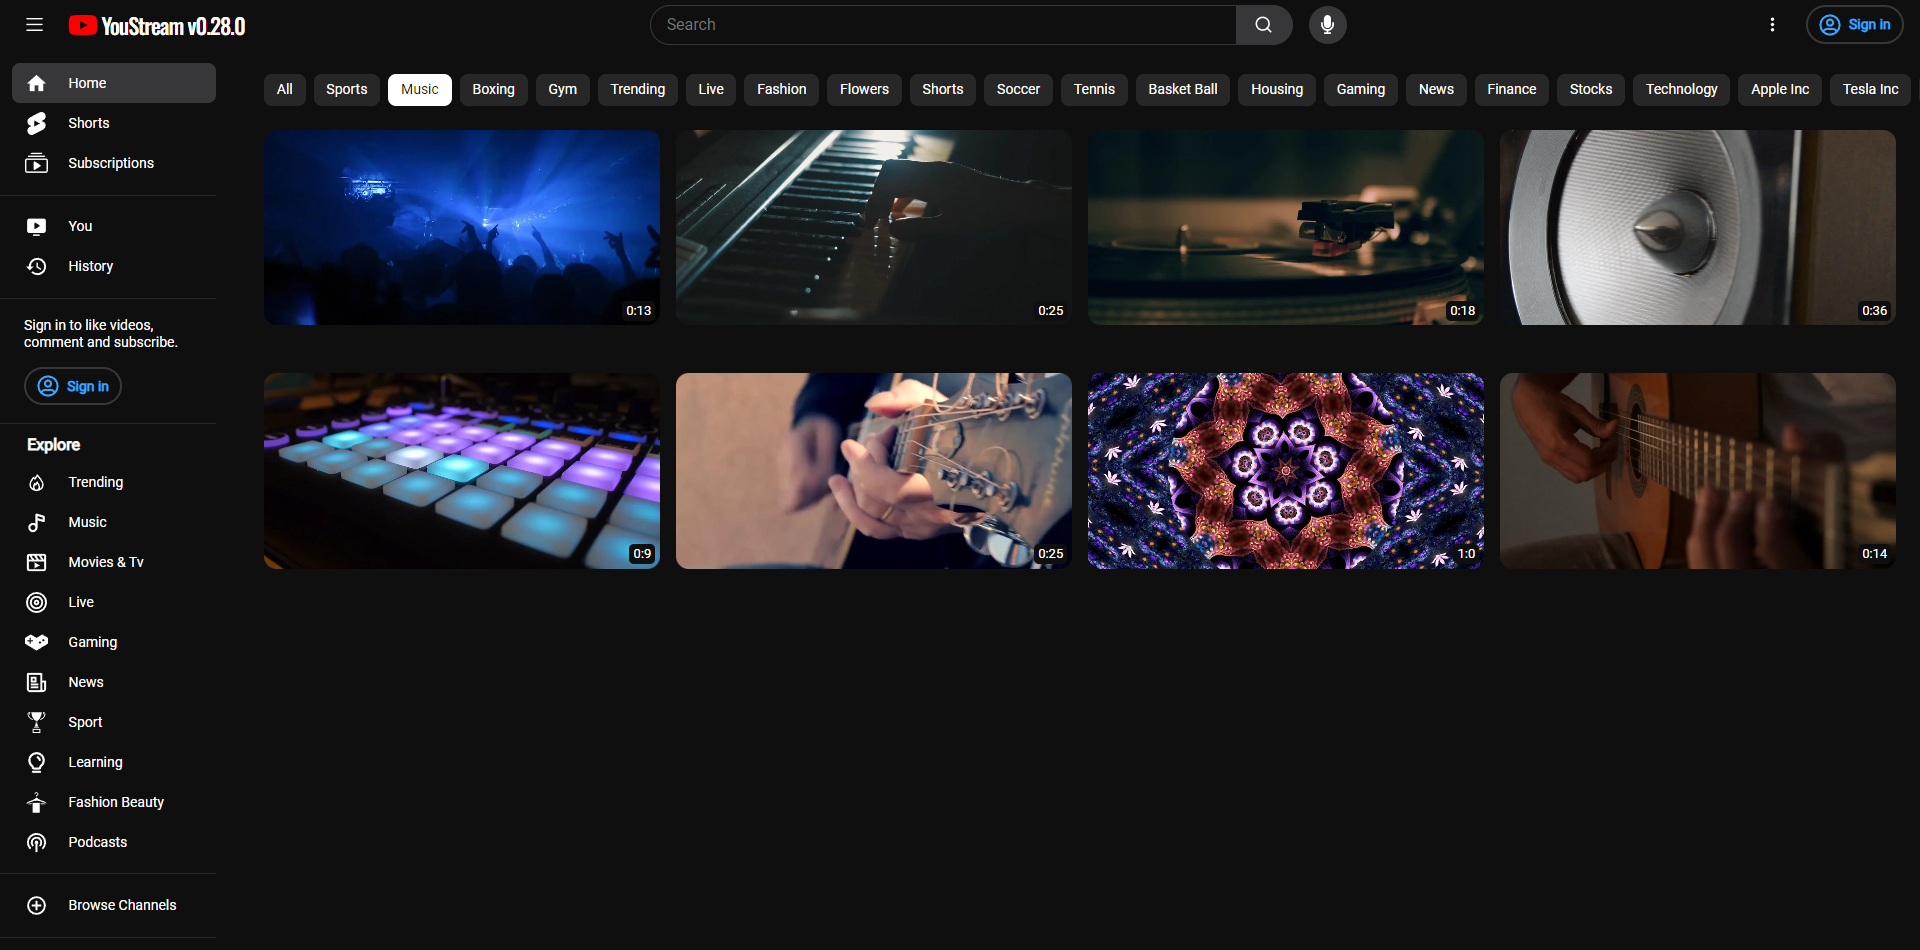
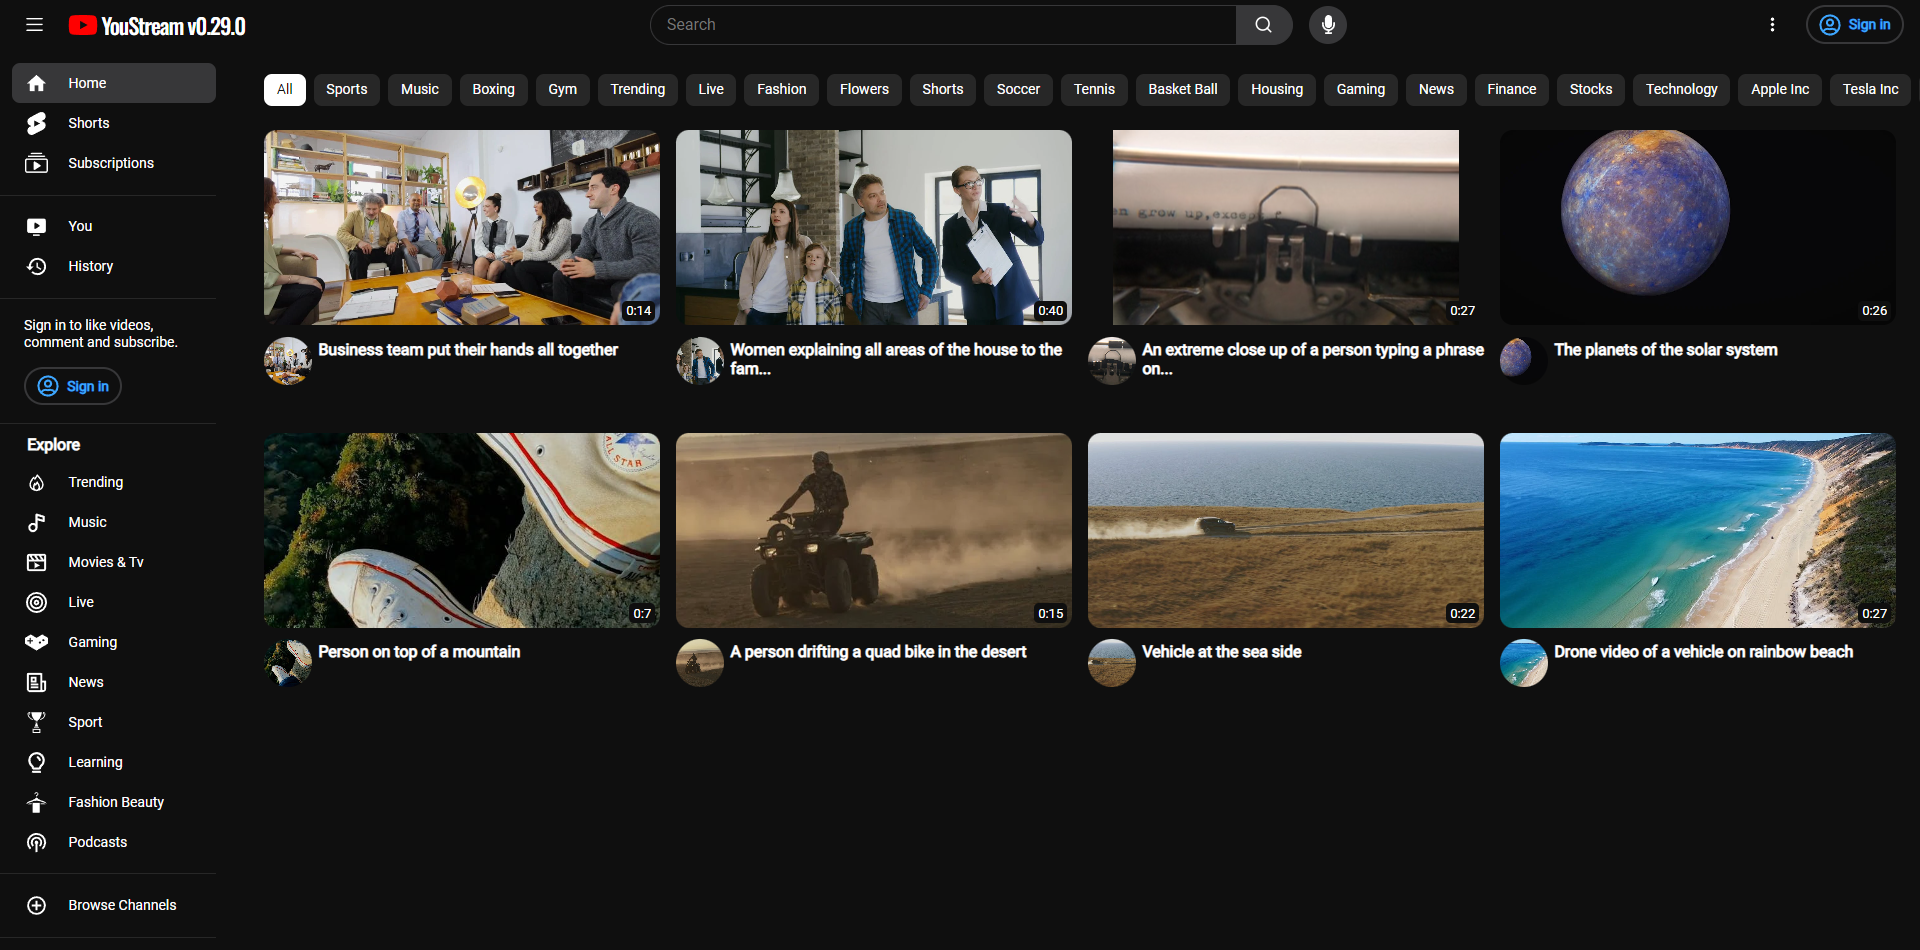
YOU STREAM 0.29.0
Add videos.ts
Update RegularVideoItem.tsx
Update RegularVideoItem.styles.ts

diff --git a/src/components/regularVideoItem/RegularVideoItem.tsx b/src/components/regularVideoItem/RegularVideoItem.tsx
@@ -1,6 +1,9 @@
 import React, { useState } from "react";
 import {
+  RegularVideoContent,
+  RegularVideoPic,
   RegularVideoThumbnail,
+  RegularVideoTitleSubTitle,
   StyledRegularVideoItem,
   Time,
 } from "./RegularVideoItem.styles";
@@ -8,6 +11,7 @@ import { Video } from "pexels";
 import ReactPlayer from "react-player";
 import { useAppContext } from "../../context/App.context";
 import { Text } from "../../utils/Text.styles";
+import { getTitle } from "../../utils/videos";
 
 interface IRegularVideoItemProps {
   video: Video;
@@ -16,6 +20,7 @@ interface IRegularVideoItemProps {
 const RegularVideoItem = ({ video }: IRegularVideoItemProps) => {
   const [playTrailer, setPlayTrailer] = useState(false);
   const { isMenuSmall } = useAppContext();
+  const TITLE_LENGTH = 50;
 
   return (
     <StyledRegularVideoItem
@@ -43,6 +48,17 @@ const RegularVideoItem = ({ video }: IRegularVideoItemProps) => {
           </Text>
         </Time>
       </RegularVideoThumbnail>
+      <RegularVideoContent>
+        <RegularVideoPic>
+          <img src={video.image} alt="profile pic" />
+        </RegularVideoPic>
+        <RegularVideoTitleSubTitle>
+          <Text className="videoItemTitle">
+            {getTitle(video.url).slice(0, TITLE_LENGTH)}
+            {getTitle(video.url).length > TITLE_LENGTH && "..."}
+          </Text>
+        </RegularVideoTitleSubTitle>
+      </RegularVideoContent>
     </StyledRegularVideoItem>
   );
 };

diff --git a/src/components/regularVideoItem/RegularVideoItem.styles.ts b/src/components/regularVideoItem/RegularVideoItem.styles.ts
@@ -45,3 +45,33 @@ export const Time = styled.div`
     font-size: 13px;
   }
 `;
+
+export const RegularVideoContent = styled.div`
+  width: 100%;
+  display: grid;
+  grid-template-columns: 2.3rem 1fr;
+  gap: 0.7rem;
+`;
+
+export const RegularVideoTitleSubTitle = styled.div`
+  margin-top: 0.2rem;
+  margin-left: 0.4rem;
+
+  .videoItemTitle {
+    font-size: 16px;
+    font-weight: bold;
+  }
+`;
+
+export const RegularVideoPic = styled.div`
+  width: 3rem;
+  height: 3rem;
+  border-radius: 100%;
+
+  img {
+    width: 100%;
+    height: 100%;
+    border-radius: inherit;
+    object-fit: cover;
+  }
+`;

diff --git a/src/components/header/Header.tsx b/src/components/header/Header.tsx
@@ -48,7 +48,7 @@ const Header = () => {
         </Icon>
         <LogoSection to="/">
           <FaYoutube color="#FF0000" size={30} />
-          <Text className="logo">YouStream v0.28.0</Text>
+          <Text className="logo">YouStream v0.29.0</Text>
         </LogoSection>
       </LeftSection>
       <SearchSection>

diff --git a/src/utils/videos.ts b/src/utils/videos.ts
@@ -1,0 +1,9 @@
+export const getTitle = (videoUrl: string): string => {
+  let title = videoUrl
+    ?.replace("https://www.pexels.com/video/", "")
+    ?.split("-")
+    ?.slice(0, -1)
+    ?.join(" ");
+
+  return title?.charAt(0)?.toUpperCase() + title?.slice(1);
+};

diff --git a/README.md b/README.md
@@ -10,7 +10,7 @@
 
 - **STACK :**
 
-  - **YOU STREAM** : `0.28.0`
+  - **YOU STREAM** : `0.29.0`
   - **REACT** : `18.2.0`
   - **PEXELS** : `1.4.0`
   - **REACT ICONS** : `5.0.1`
